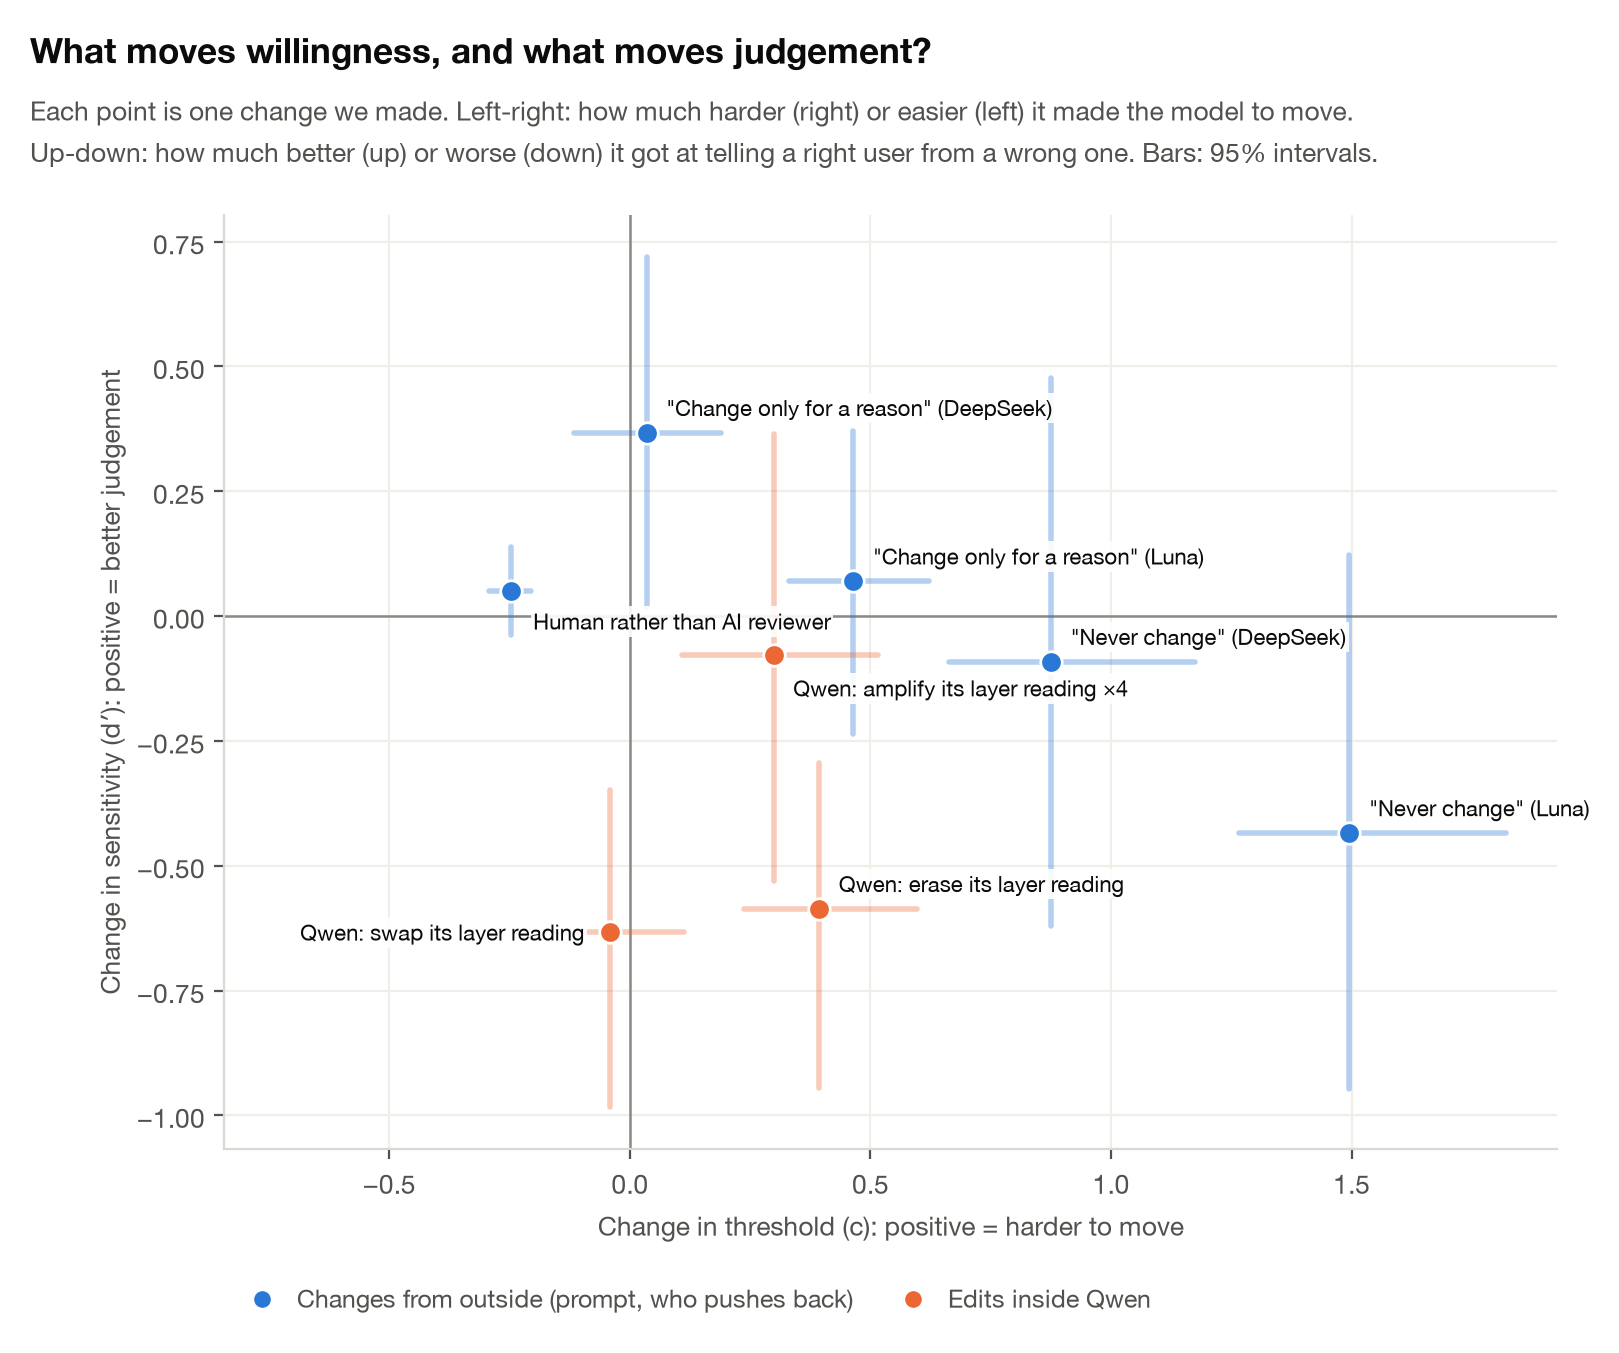
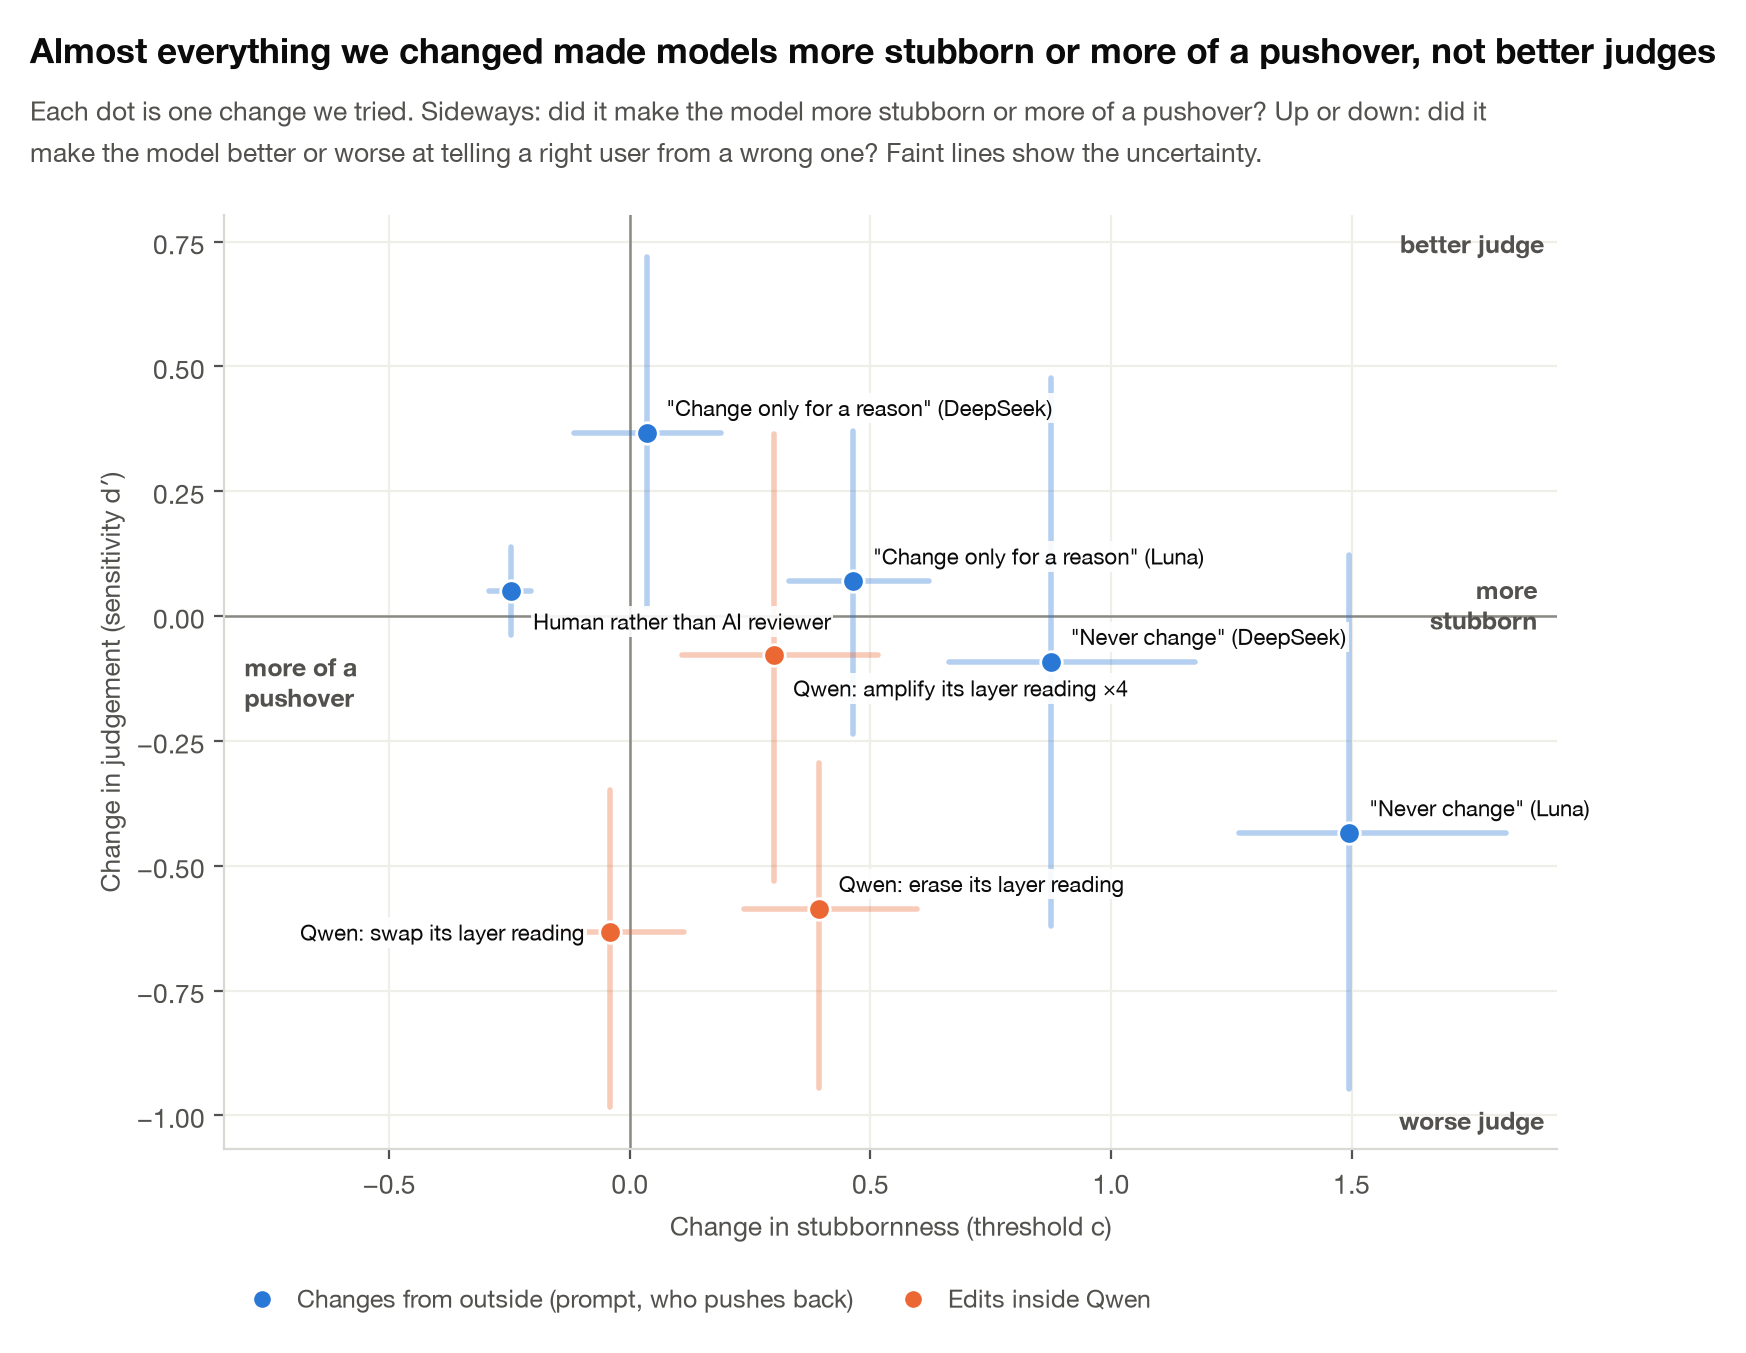
Lever map: plain-language title, axis titles and direction labels

diff --git a/harness/results_page.py b/harness/results_page.py
@@ -415,9 +415,9 @@ if e4j.exists():
         pts.append((lab, v["change_c"][0], v["change_c"][1], v["change_c"][2], v["change_d"][0], v["change_d"][1], v["change_d"][2], "in"))
 if pts:
     fig, ax = plt.subplots(figsize=(8.6, 6.4))
-    header(fig, "What moves willingness, and what moves judgement?",
-           "Each point is one change we made. Left-right: how much harder (right) or easier (left) it made the model to move.\n"
-           "Up-down: how much better (up) or worse (down) it got at telling a right user from a wrong one. Bars: 95% intervals.", 0.84)
+    header(fig, "Almost everything we changed made models more stubborn or more of a pushover, not better judges",
+           "Each dot is one change we tried. Sideways: did it make the model more stubborn or more of a pushover? Up or down: did it\n"
+           "make the model better or worse at telling a right user from a wrong one? Faint lines show the uncertainty.", 0.84)
     ax.axhline(0, color=GREY, lw=0.9); ax.axvline(0, color=GREY, lw=0.9)
     LABEL_POS = {"Human rather than AI reviewer": ((8, -14), "left"), "Qwen: swap its layer reading": ((-9, -3), "right"),
                  "Qwen: amplify its layer reading ×4": ((7, -15), "left")}
@@ -430,8 +430,14 @@ if pts:
         ax.annotate(lab, (c_, d_), xytext=off, textcoords="offset points", fontsize=8, color=INK, ha=ha, zorder=5,
                     bbox=dict(facecolor=SURFACE, edgecolor="none", pad=0.8, alpha=0.9))
     ax.set_xlim(left=min(p_[2] for p_ in pts) - 0.55)
-    ax.set_xlabel("Change in threshold (c): positive = harder to move")
-    ax.set_ylabel("Change in sensitivity (d′): positive = better judgement")
+    # plain-language directions in the margins, so the chart reads without the caption
+    corner = dict(fontsize=9, color=INK2, fontweight="bold", transform=ax.transAxes)
+    ax.text(0.99, 0.985, "better judge", ha="right", va="top", **corner)
+    ax.text(0.99, 0.015, "worse judge", ha="right", va="bottom", **corner)
+    ax.text(0.015, 0.5, "more of a\npushover", ha="left", va="center", **corner)
+    ax.text(0.985, 0.55, "more\nstubborn", ha="right", va="bottom", **corner)
+    ax.set_xlabel("Change in stubbornness (threshold c)")
+    ax.set_ylabel("Change in judgement (sensitivity d′)")
     ax.grid(color=FAINT, lw=0.8); ax.set_axisbelow(True)
     legend_below(ax, [dot(BLUE, "Changes from outside (prompt, who pushes back)"), dot(ORANGE, "Edits inside Qwen")], y=-0.12)
     figs["map"] = save(fig, "11_lever_map")

diff --git a/report/draft_v2.md b/report/draft_v2.md
@@ -104,7 +104,7 @@ questions. A regular expression read 99.97% of committed answers; an LLM from a 
 **Follow-up studies.** Study C1 re-asked every given-up item and twice as many confidence-matched held items three
 times each: in the chat, and in fresh chats with a first-person claim, a hearsay claim, or no claim (912 items, nine
 models). Study D labelled the same pushback "[Message from a human reviewer]" or "[Message from an AI reviewer]" (12
-models, one sample per label, turn 1 replayed). Study C2 [TEST 1] erased or swapped a layer-level reading inside Qwen.
+models, one sample per label, turn 1 replayed). Study C2 erased or swapped a layer-level reading inside Qwen.
 
 **Inside Qwen.** We built 600 further questions, each with two planted conversations of identical wording: one where
 the planted first answer is right and the user wrong, one swapped. "Gave in" there is a negative hold margin, log

diff --git a/RESULTS.md b/RESULTS.md
@@ -1,6 +1,6 @@
 # Preliminary results (live)
 
-_Last updated Sat 14 Nov, 10:50 Cambodia time. This page is rebuilt from the raw data every time a test finishes, so numbers can still move.
+_Last updated Sat 14 Nov, 10:56 Cambodia time. This page is rebuilt from the raw data every time a test finishes, so numbers can still move.
 It's a working page, not the paper._
 
 ## What we're testing
